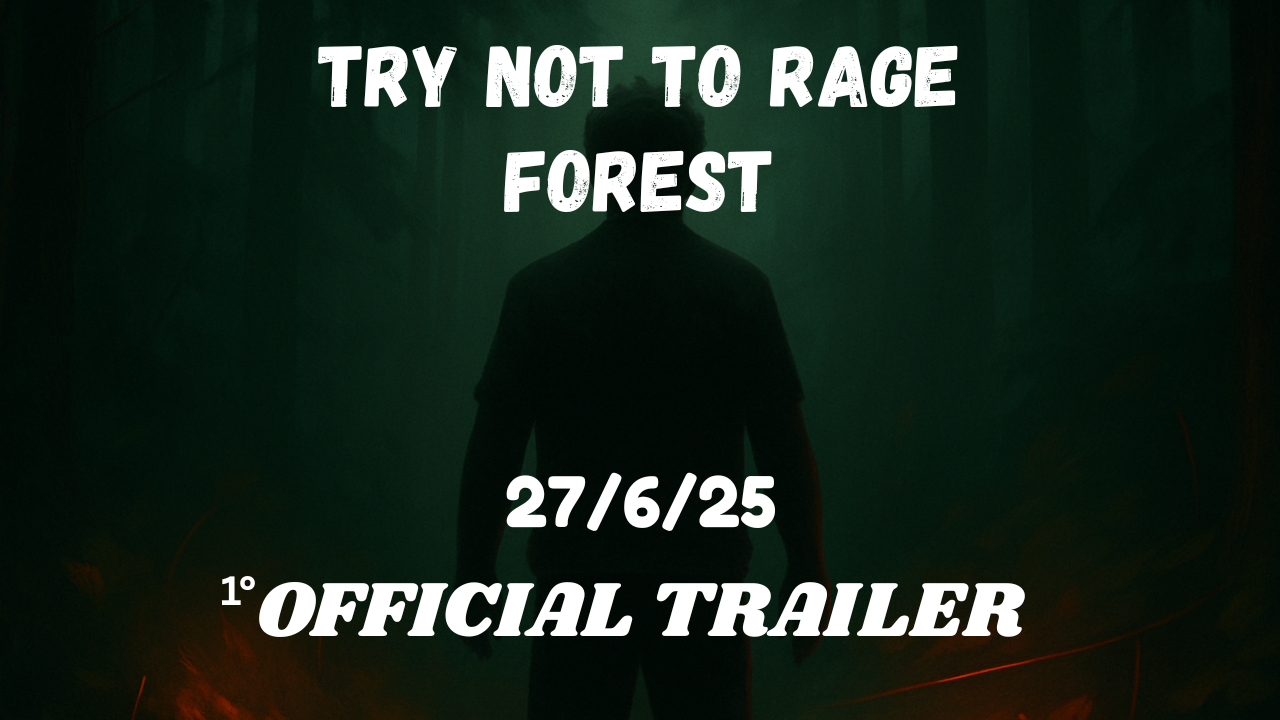
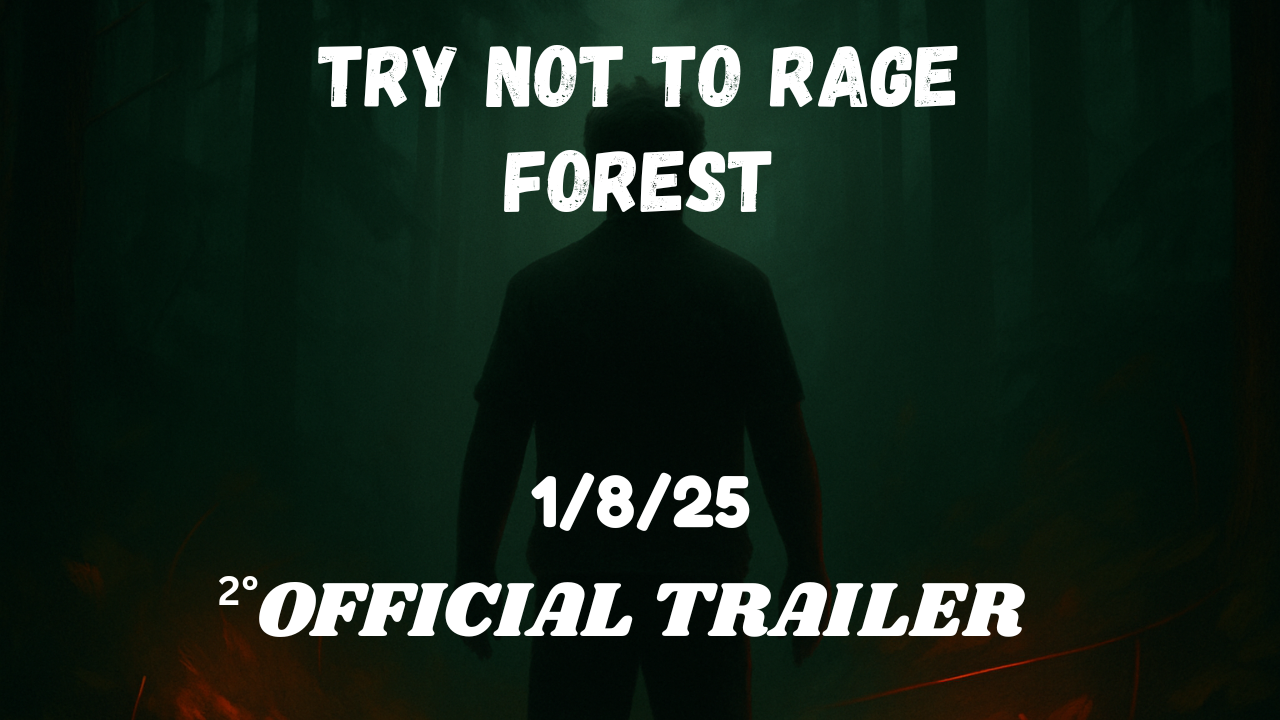
Add files via upload

Changed region(s): [[0.375, 0.6417, 0.625, 0.7333], [0.1562, 0.7944, 0.2188, 0.8556]]

diff --git a/index.html b/index.html
@@ -225,6 +225,87 @@
       </div>
       
       <div class="flex flex-col gap-16">
+
+       <!-- News Card 4 - Added before existing cards -->
+<div class="relative bg-gradient-to-br from-[#1a1a1a]/80 to-[#111]/80 backdrop-blur-xl border border-cyan-600/30 rounded-3xl overflow-hidden shadow-[0_0_40px_#0ff1] hover:shadow-[0_0_60px_#a855f73] transition-all duration-500 group animate-fade-in">
+  <div class="absolute inset-0 bg-gradient-to-br from-cyan-500/10 via-purple-500/10 to-pink-500/10 opacity-10 group-hover:opacity-30 transition-opacity duration-500"></div>
+  <div class="absolute inset-0 bg-gradient-to-b from-transparent to-black/80 z-10"></div>
+  <div class="relative z-20">
+    <div class="overflow-hidden">
+      <img src="/images/TRY_NOT_TO_RAGE_2.png" alt="News" class="w-full h-64 object-cover sm:rounded-t-3xl group-hover:scale-105 transition-transform duration-700">
+    </div>
+    <div class="p-8">
+      <span class="text-cyan-400 text-sm font-medium inline-flex items-center">
+        <span class="inline-block w-2 h-2 rounded-full bg-cyan-400 mr-2 animate-pulse"></span>
+        August 1, 2025
+      </span>
+      <h3 class="text-3xl font-bold text-white mb-3 bg-gradient-to-r from-cyan-300 to-white bg-clip-text text-transparent">
+        Try Not To Rage: Forest
+      </h3>
+      <div class="news-content" id="news-content-4">
+        <p class="text-gray-300 text-lg leading-relaxed">
+          The second trailer for Try Not To Rage: Forest is officially live!
+        </p>
+        <div class="additional-content mt-4 text-gray-300 text-lg leading-relaxed">
+          <p class="mb-4">Greek Games Studios is thrilled to announce our second trailer for Try Not To Rage: Forest!</p>
+          <ul class="list-disc pl-5 space-y-2">
+            <li>Check it out to our Youtube channel</li>
+          </ul>
+        </div>
+      </div>
+      <div class="mt-6">
+        <button onclick="toggleReadMore('news-content-4', this)" class="read-more-btn px-6 py-2 rounded-full bg-cyan-600/10 border border-cyan-400/30 text-cyan-300 hover:bg-cyan-600/20 hover:text-white transition-all duration-300 text-sm font-medium flex items-center hover:shadow-cyan-500/20 hover:translate-x-1">
+          <span class="more-text">Read More</span>
+          <span class="less-text">Show Less</span>
+          <svg width="16" height="16" viewBox="0 0 24 24" fill="none" stroke="currentColor" stroke-width="2" stroke-linecap="round" stroke-linejoin="round" class="ml-2">
+            <path d="M5 12h14M12 5l7 7-7 7"/>
+          </svg>
+        </button>
+      </div>
+    </div>
+  </div>
+</div>
+
+<!-- News Card 5 - Added before existing cards -->
+<div class="relative bg-gradient-to-br from-[#1a1a1a]/80 to-[#111]/80 backdrop-blur-xl border border-cyan-600/30 rounded-3xl overflow-hidden shadow-[0_0_40px_#0ff1] hover:shadow-[0_0_60px_#a855f73] transition-all duration-500 group animate-fade-in">
+  <div class="absolute inset-0 bg-gradient-to-br from-cyan-500/10 via-purple-500/10 to-pink-500/10 opacity-10 group-hover:opacity-30 transition-opacity duration-500"></div>
+  <div class="absolute inset-0 bg-gradient-to-b from-transparent to-black/80 z-10"></div>
+  <div class="relative z-20">
+    <div class="overflow-hidden">
+      <img src="/images/TRY_NOT_TO_RAGE_1.png" alt="News" class="w-full h-64 object-cover sm:rounded-t-3xl group-hover:scale-105 transition-transform duration-700">
+    </div>
+    <div class="p-8">
+      <span class="text-cyan-400 text-sm font-medium inline-flex items-center">
+        <span class="inline-block w-2 h-2 rounded-full bg-cyan-400 mr-2 animate-pulse"></span>
+        June 27, 2025
+      </span>
+      <h3 class="text-3xl font-bold text-white mb-3 bg-gradient-to-r from-cyan-300 to-white bg-clip-text text-transparent">
+        Try Not To Rage: Forest
+      </h3>
+      <div class="news-content" id="news-content-5">
+        <p class="text-gray-300 text-lg leading-relaxed">
+          The first trailer for Try Not To Rage: Forest is officially live!
+        </p>
+        <div class="additional-content mt-4 text-gray-300 text-lg leading-relaxed">
+          <p class="mb-4">Greek Games Studios is thrilled to announce our first trailer for Try Not To Rage: Forest!</p>
+          <ul class="list-disc pl-5 space-y-2">
+            <li>Check it out to our Youtube channel</li>
+          </ul>
+        </div>
+      </div>
+      <div class="mt-6">
+        <button onclick="toggleReadMore('news-content-5', this)" class="read-more-btn px-6 py-2 rounded-full bg-cyan-600/10 border border-cyan-400/30 text-cyan-300 hover:bg-cyan-600/20 hover:text-white transition-all duration-300 text-sm font-medium flex items-center hover:shadow-cyan-500/20 hover:translate-x-1">
+          <span class="more-text">Read More</span>
+          <span class="less-text">Show Less</span>
+          <svg width="16" height="16" viewBox="0 0 24 24" fill="none" stroke="currentColor" stroke-width="2" stroke-linecap="round" stroke-linejoin="round" class="ml-2">
+            <path d="M5 12h14M12 5l7 7-7 7"/>
+          </svg>
+        </button>
+      </div>
+    </div>
+  </div>
+</div>
+
         <!-- News Card 1 -->
         <div class="relative bg-gradient-to-br from-[#1a1a1a]/80 to-[#111]/80 backdrop-blur-xl border border-cyan-600/30 rounded-3xl overflow-hidden shadow-[0_0_40px_#0ff1] hover:shadow-[0_0_60px_#a855f73] transition-all duration-500 group animate-fade-in">
           <div class="absolute inset-0 bg-gradient-to-br from-cyan-500/10 via-purple-500/10 to-pink-500/10 opacity-10 group-hover:opacity-30 transition-opacity duration-500"></div>

diff --git a/additionalHTMLS/trailers.html b/additionalHTMLS/trailers.html
@@ -199,37 +199,37 @@
       <!-- Trailers Grid -->
       <div class="grid grid-cols-1 sm:grid-cols-2 lg:grid-cols-3 gap-8">
         <!-- Trailer 1 -->
-        <a href="https://www.youtube.com/watch?v=dQw4w9WgXcQ" target="_blank" rel="noopener noreferrer" class="trailer-item bg-[#222]/80 border border-cyan-500/20 animate-fade-in">
+        <a href="https://youtu.be/Vt1Vt5kzc0g?si=-V2OvGSTLrxU3JpC" target="_blank" rel="noopener noreferrer" class="trailer-item bg-[#222]/80 border border-cyan-500/20 animate-fade-in">
           <div class="relative">
-            <img src="/images/TRY_NOT_TO_RAGE_2.png" alt="Game Trailer 1" class="w-full h-auto aspect-video object-cover">
+            <img src="/images/TRY_NOT_TO_RAGE_1.png" alt="Game Trailer 1" class="w-full h-auto aspect-video object-cover">
             <div class="play-button">
               <div class="play-icon"></div>
             </div>
-            <div class="coming-soon">Coming Soon</div>
+            <div class="coming-soon"></div>
           </div>
           <div class="p-4">
-            <h3 class="text-xl font-bold text-white mb-2">Unlimited Roleplay Series - Gameplay Reveal</h3>
+            <h3 class="text-xl font-bold text-white mb-2">Try Not To Rage: Forest - Official Trailer 1</h3>
             <p class="text-gray-400 text-sm">Watch on YouTube</p>
           </div>
         </a>
         
         <!-- Trailer 2 -->
-        <a href="https://www.youtube.com/watch?v=dQw4w9WgXcQ" target="_blank" rel="noopener noreferrer" class="trailer-item bg-[#222]/80 border border-cyan-500/20 animate-fade-in">
+        <a href="https://youtu.be/624-kzP-xAw?si=sFrEdlxa0vrKD1xf" target="_blank" rel="noopener noreferrer" class="trailer-item bg-[#222]/80 border border-cyan-500/20 animate-fade-in">
           <div class="relative">
-            <img src="/images/trailer2-thumb.jpg" alt="Game Trailer 2" class="w-full h-auto aspect-video object-cover">
+            <img src="/images/TRY_NOT_TO_RAGE_2.png" alt="Game Trailer 2" class="w-full h-auto aspect-video object-cover">
             <div class="play-button">
               <div class="play-icon"></div>
             </div>
-            <div class="coming-soon">Coming Soon</div>
+            <div class="coming-soon"></div>
           </div>
           <div class="p-4">
-            <h3 class="text-xl font-bold text-white mb-2">Try Not To Rage - Launch Trailer</h3>
+            <h3 class="text-xl font-bold text-white mb-2">Try Not To Rage: Forest - Official Trailer 2</h3>
             <p class="text-gray-400 text-sm">Watch on YouTube</p>
           </div>
         </a>
         
         <!-- Trailer 3 -->
-        <a href="https://www.youtube.com/watch?v=dQw4w9WgXcQ" target="_blank" rel="noopener noreferrer" class="trailer-item bg-[#222]/80 border border-cyan-500/20 animate-fade-in">
+        <a href="https://www.youtube.com/" target="_blank" rel="noopener noreferrer" class="trailer-item bg-[#222]/80 border border-cyan-500/20 animate-fade-in">
           <div class="relative">
             <img src="/images/trailer3-thumb.jpg" alt="Game Trailer 3" class="w-full h-auto aspect-video object-cover">
             <div class="play-button">
@@ -238,7 +238,7 @@
             <div class="coming-soon">Coming Soon</div>
           </div>
           <div class="p-4">
-            <h3 class="text-xl font-bold text-white mb-2">Blank</h3>
+            <h3 class="text-xl font-bold text-white mb-2">Try Not To Rage: Forest - Official Trailer 3</h3>
             <p class="text-gray-400 text-sm">Watch on YouTube</p>
           </div>
         </a>

diff --git a/about-us.html b/about-us.html
@@ -163,7 +163,7 @@
               Greek Games Studios is a creative and ambitious game development team based in Thessaloniki, Greece. Founded by passionate young developers with a shared vision, we specialize in crafting unique gaming experiences across platforms like Roblox, Android, and PC.
             </p>
             <p class="text-gray-300">
-              From immersive roleplay worlds to fast-paced 2D challenges, our projects blend innovation, detail, and heart. At GGS, we don’t just make games — we build worlds that inspire, entertain, and bring players together. Powered by creativity and a love for gaming, we aim to leave a mark on the future of interactive entertainment.
+              From immersive roleplay worlds to fast-paced 2D challenges, our projects blend innovation, detail, and heart. At GGS, we don’t just make games - we build worlds that inspire, entertain, and bring players together. Powered by creativity and a love for gaming, we aim to leave a mark on the future of interactive entertainment.
             </p>
           </div>
           <div class="md:w-1/2">
@@ -197,7 +197,7 @@
             </div>
             <h3 class="text-xl font-bold text-white mb-3">Community</h3>
             <p class="text-gray-300">
-              We are committed to building meaningful connections with our players — listening, evolving, and creating games that truly resonate with our global audience through collaboration and feedback.
+              We are committed to building meaningful connections with our players - listening, evolving, and creating games that truly resonate with our global audience through collaboration and feedback.
             </p>
           </div>
           <div class="bg-[#1a1a1a]/50 border border-pink-600/30 rounded-xl p-6">
@@ -236,7 +236,7 @@
             <div>
               <h3 class="text-xl font-bold text-white mb-2">First Steps</h3>
               <p class="text-gray-300">
-                After months of learning and testing, the idea for Unlimited Roleplay was born — a realistic Greek-themed RP experience like no other on Roblox. The early builds showed great potential, and the team began expanding their vision.
+                After months of learning and testing, the idea for Unlimited Roleplay was born - a realistic Greek-themed RP experience like no other on Roblox. The early builds showed great potential, and the team began expanding their vision.
               </p>
             </div>
           </div>
@@ -257,7 +257,7 @@
             <div>
               <h3 class="text-xl font-bold text-white mb-2">Growth & Innovation</h3>
               <p class="text-gray-300">
-                GGS launched its first internal AI system, Nexis, and began creating cinematic teasers, custom launchers, and cross-platform tools. The studio now balances development across Roblox, Android, and PC — with a strong focus on quality, community, and innovation. The Unlimited Roleplay teaser and mobile releases gained major traction, and more original titles are in progress.
+                GGS launched its first internal AI system, Nexis, and began creating cinematic teasers, custom launchers, and cross-platform tools. The studio now balances development across Roblox, Android, and PC - with a strong focus on quality, community, and innovation. We are not a company but we are a small team with the dream to became a company.
               </p>
             </div>
           </div>
